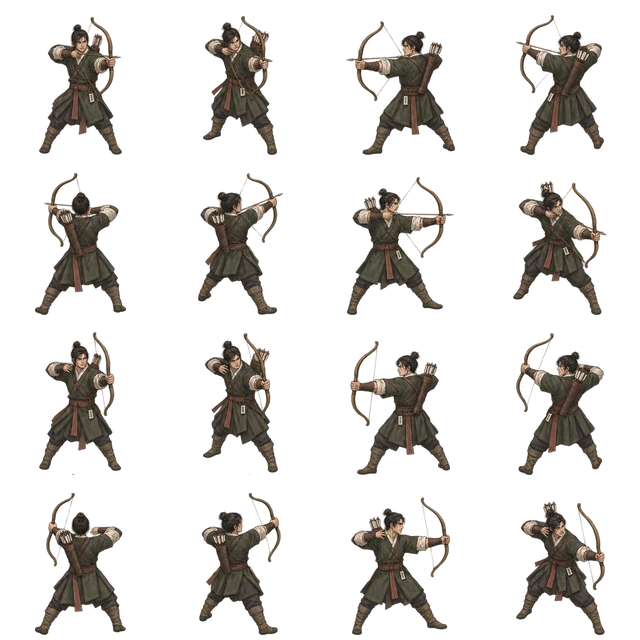
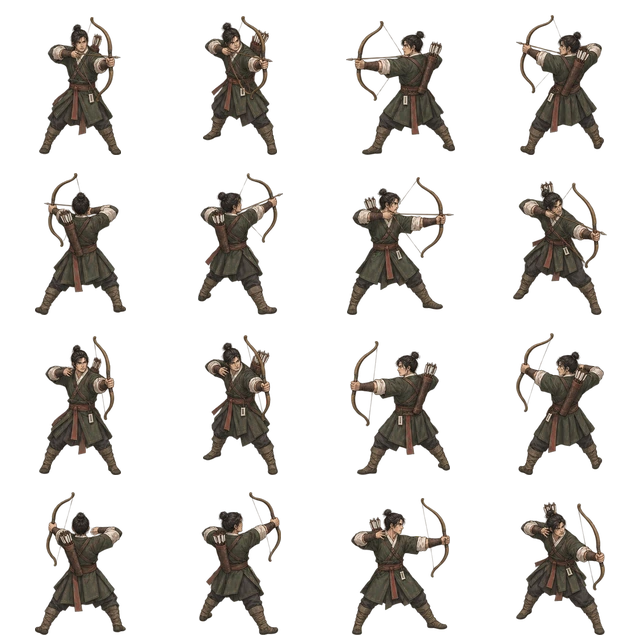
Recover Seolo's boots from all original pose rows and anchor the idle stance

diff --git a/topview/tools/pose_cells.py b/topview/tools/pose_cells.py
@@ -1,0 +1,30 @@
+"""Extract painted figures using artist-registered source coordinates."""
+import json
+from pathlib import Path
+from PIL import Image
+
+ROOT = Path(__file__).resolve().parents[1]
+def registered_cells(name):
+    spec = json.loads((ROOT/'editable/pose-cells.json').read_text())[name]
+    image = Image.open(ROOT/'assets/source'/name).convert('RGBA')
+    if list(image.size) != spec['size']:
+        raise ValueError(f'Register the new source size: {name}')
+    uncovered = image.getchannel('A').point(lambda a: 255 if a >= 65 else 0)
+    cells = []
+    for row in spec['bounds']:
+        if len(row) != spec['width']:
+            raise ValueError(f'Missing pose in {name}')
+        for rect in row:
+            uncovered.paste(0, rect)
+            cell = image.crop(rect)
+            alpha = cell.getchannel('A')
+            ink = alpha.point(lambda a: 255 if a >= 65 else 0).getbbox()
+            if not ink or min(ink[:2]) < 1 or ink[2]>=cell.width or ink[3]>=cell.height:
+                raise ValueError(f'Paint meets the extraction edge in {name}, {rect}')
+            cell.putalpha(alpha.point(lambda a: 0 if a<16 else a))
+            cells.append(cell.crop(ink))
+    if len(cells) != spec['width']*spec['height']:
+        raise ValueError(f'Incomplete rows in {name}')
+    if uncovered.getbbox():
+        raise ValueError(f'Paint outside the registered cells in {name}: {uncovered.getbbox()}')
+    return cells

diff --git a/topview/tools/pack-poses.py b/topview/tools/pack-poses.py
@@ -2,6 +2,7 @@
 import sys
 from pathlib import Path
 from PIL import Image
+from pose_cells import registered_cells
 
 assets=Path(__file__).resolve().parents[1]/'assets'
 
@@ -33,6 +34,9 @@ def pack(name,parts,columns,width,height,pad):
 pack('seolo-bow-ne',frames('seolo-bow-ne.png',2,1),2,160,160,5)
 if sys.argv[1:]==['--bow-ne']:raise SystemExit(0)
 
+pack('seolo-states',registered_cells('seolo-states.png'),8,160,160,5)
+if sys.argv[1:]==['--seolo-states']:raise SystemExit(0)
+
 for name in ['hound','boar','stag','crow','bat','ghost']:
     source='turns-stag-clean.png' if name=='stag' else 'turns-'+name+'.png'
     poses=frames(source,7,5)
@@ -42,7 +46,6 @@ for name in ['hound','boar','stag','crow','bat','ghost']:
         factor=poses[28].height/rear[0].height
         poses[28:]=[im.resize((round(im.width*factor),round(im.height*factor)),Image.Resampling.LANCZOS) for im in rear]
     pack('turns-'+name,poses,7,144,128,4)
-pack('seolo-states',frames('seolo-states.png',8,4),8,160,160,5)
 pack('seolo-front',frames('seolo-south-approved-pose.png',4,1),4,144,168,6)
 bridge=frames('east-bridge.png',1,1)[0];bridge.thumbnail((720,260),Image.Resampling.LANCZOS)
 bridge.save(assets/'props/bridge.png');front=bridge.copy();front.paste((0,0,0,0),(0,0,front.width,round(front.height*.74)));front.save(assets/'props/bridge-near.png')

diff --git a/topview/tools/pack-actors.py b/topview/tools/pack-actors.py
@@ -30,15 +30,9 @@ for idx,name in enumerate(['hound','boar','stag','crow','bat','ghost','cart','wo
     sprite=cell.crop(box);sprite.thumbnail((300,300),Image.Resampling.LANCZOS);sprite.save(root/f'actors/{name}.webp',quality=92)
 
 # A separate sheet keeps walking contact frames intact during the draw and release.
-source=Image.open(root/'source/seolo-bow.png').convert('RGBA')
+from pose_cells import registered_cells
 bow=Image.new('RGBA',(4*160,4*160))
-for row in range(4):
-    for col in range(4):
-        frame=source.crop((col*source.width//4,row*source.height//4,(col+1)*source.width//4,(row+1)*source.height//4))
-        alpha=frame.getchannel('A')
-        frame.putalpha(alpha.point(lambda n:0 if n<12 else n))
-        box=alpha.point(lambda n:255 if n>42 else 0).getbbox()
-        sprite=frame.crop(box)
-        sprite=sprite.resize((round(sprite.width*.46),round(sprite.height*.46)),Image.Resampling.LANCZOS)
-        bow.alpha_composite(sprite,(col*160+80-sprite.width//2,row*160+155-sprite.height))
+for i,sprite in enumerate(registered_cells('seolo-bow.png')):
+    sprite=sprite.resize((round(sprite.width*.46),round(sprite.height*.46)),Image.Resampling.LANCZOS)
+    bow.alpha_composite(sprite,((i%4)*160+80-sprite.width//2,(i//4)*160+155-sprite.height))
 bow.save(root/'actors/seolo-bow.webp',quality=93,method=6)

diff --git a/game/docs/topview/VERIFICATION.md b/game/docs/topview/VERIFICATION.md
@@ -103,3 +103,13 @@ python3 topview/tests/sample_render.py --base http://127.0.0.1:8000/ --out /tmp/
 ```
 
 **제작 중 해결한 오류.** 원본 이벤트가 드러내는 나무꾼을 렌더러가 찾지 못해 배우 이미지와 현장 좌표를 연결했다. 원본의 일반 인구 한도 8은 기존 시작 적 12기보다 작아 수레 증원이 등장하지 못했다. 이 장의 실제 초기 편성과 일회성 증원 수로 한도 16을 계산한다. 적 행동 수 제한은 원래 규칙을 따른다. 터치 자동화의 초기 버튼 대기 4.5초는 동시 실행 중 이미 도입 대사가 열렸는데도 시간 초과를 냈다. 앱의 이동·사격·시간 규칙을 그대로 두고 입력 검수기의 기다림만 18초로 조정해 같은 처음부터 다시 실행했다.
+
+### 설오의 발과 대기 호흡
+
+기준판 `3472c704`에서 설오 대기 원화의 첫 줄은 y=291까지 이어졌는데, 포장 도구는 y=256에서 잘랐다. 이 때문에 첫 줄의 부츠가 다음 자세에 섞였다. 원본 두 장의 48개 자세를 각 그림의 실제 경계로 등록하고 밑창을 같은 접지점에 맞췄다. 원화에서 알파 65 이상인 428,616픽셀(상태)과 396,452픽셀(활) 중 등록 밖에 남은 픽셀은 각각 0이었다. 북동 조준·발사는 기존 왼손 활 전용 그림을 사용한다.
+
+데스크톱 1100×730과 터치 에뮬레이션 844×480에서 타이틀, 오프닝, 쉼터를 거쳐 1장에 진입해 이동 후 촬영했다. 전장 렌더러의 대기 실루엣에서 0, 0.5, 1, 2, 3초의 머리·밑창 위치가 모두 같은 행(160px 버퍼의 46–140)에 있었다. 호흡은 어깨와 활 든 손에 남겼다.
+
+[수정 전·후 여섯 자세](evidence/art-bible/seolo-soles-before-after.jpg) · [PC 전장](evidence/art-bible/seolo-feet-pc.png) · [터치 전장](evidence/art-bible/seolo-feet-touch.png)
+
+원화가 바뀌면 `python topview/tools/pack-poses.py --seolo-states`와 `python topview/tools/pack-actors.py`로 다시 포장한다. 원화 크기, 그림 누락, 경계에 닿는 자세는 도구가 오류로 보고한다.
